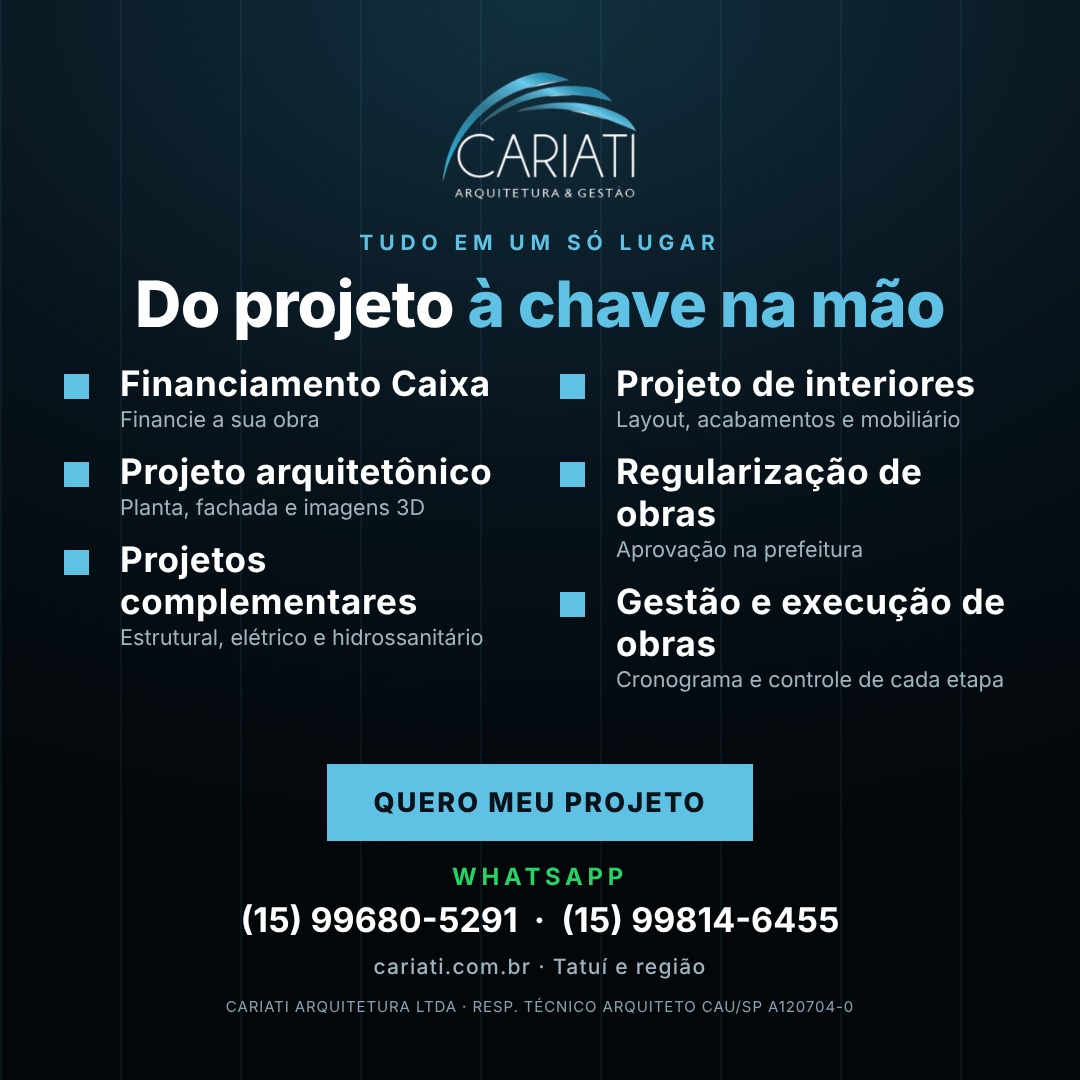
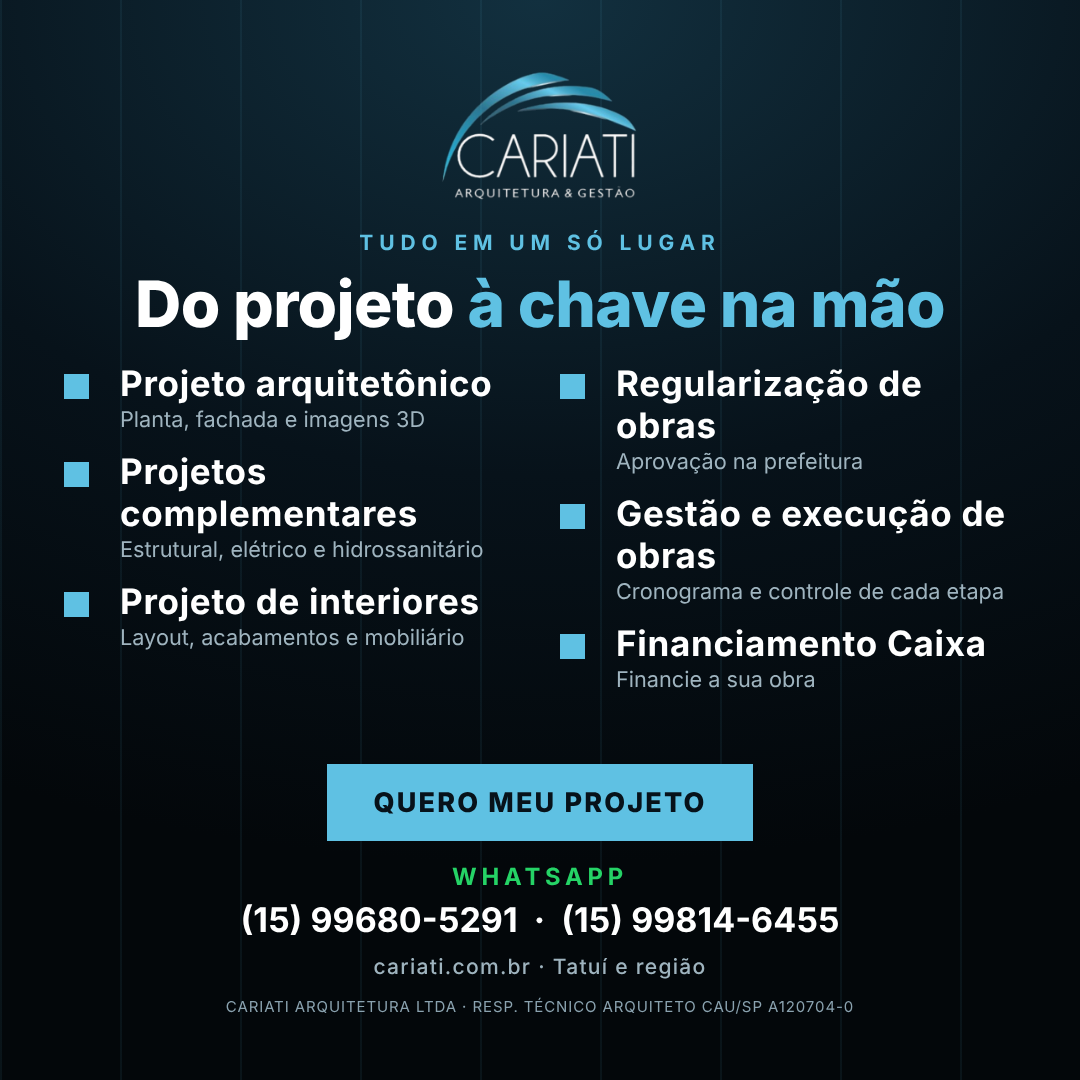
Flyer 01: move Financiamento Caixa to last item
Claude-Session: https://claude.ai/code/session_012W4cPJrLBDcgKi33Cw4yCm

Changed region(s): [[0.5194, 0.3361, 0.9472, 0.6417], [0.0611, 0.4278, 0.4583, 0.6111], [0.1222, 0.3361, 0.4583, 0.3972]]

diff --git a/flyers_cariati/build.py b/flyers_cariati/build.py
@@ -50,7 +50,7 @@ F={}
 # 1 tudo em um só lugar
 def f1(vert):
     li=lambda t,s='':f"<li>{t}<span>{s}</span></li>"
-    items=li("Financiamento Caixa","Financie a sua obra")+li("Projeto arquitetônico","Planta, fachada e imagens 3D")+li("Projetos complementares","Estrutural, elétrico e hidrossanitário")+li("Projeto de interiores","Layout, acabamentos e mobiliário")+li("Regularização de obras","Aprovação na prefeitura")+li("Gestão e execução de obras","Cronograma e controle de cada etapa")
+    items=li("Projeto arquitetônico","Planta, fachada e imagens 3D")+li("Projetos complementares","Estrutural, elétrico e hidrossanitário")+li("Projeto de interiores","Layout, acabamentos e mobiliário")+li("Regularização de obras","Aprovação na prefeitura")+li("Gestão e execução de obras","Cronograma e controle de cada etapa")+li("Financiamento Caixa","Financie a sua obra")
     if vert:
         return L+sp(40)+'<div class="eyebrow z">Tudo em um só lugar</div>'+sp(20)+'<h1 class=z style="white-space:nowrap;font-size:70px">Do projeto <em>à chave na mão</em></h1>'+sp(60)+f'<ul class="list z">{items}</ul>'+flex()+'<div class="cta z">Quero meu projeto</div>'+sp(40)+PH+sp(30)+FOOT
     return L+sp(26)+'<div class="eyebrow z">Tudo em um só lugar</div>'+sp(14)+'<h1 class=z>Do projeto <em>à chave na mão</em></h1>'+sp(24)+f'<ul class="list z" style="columns:2;display:block;column-gap:40px">{items.replace("<li>","<li style=\"margin-bottom:18px;break-inside:avoid\">")}</ul>'+flex()+'<div class="cta z">Quero meu projeto</div>'+sp(18)+PH+sp(14)+FOOT
